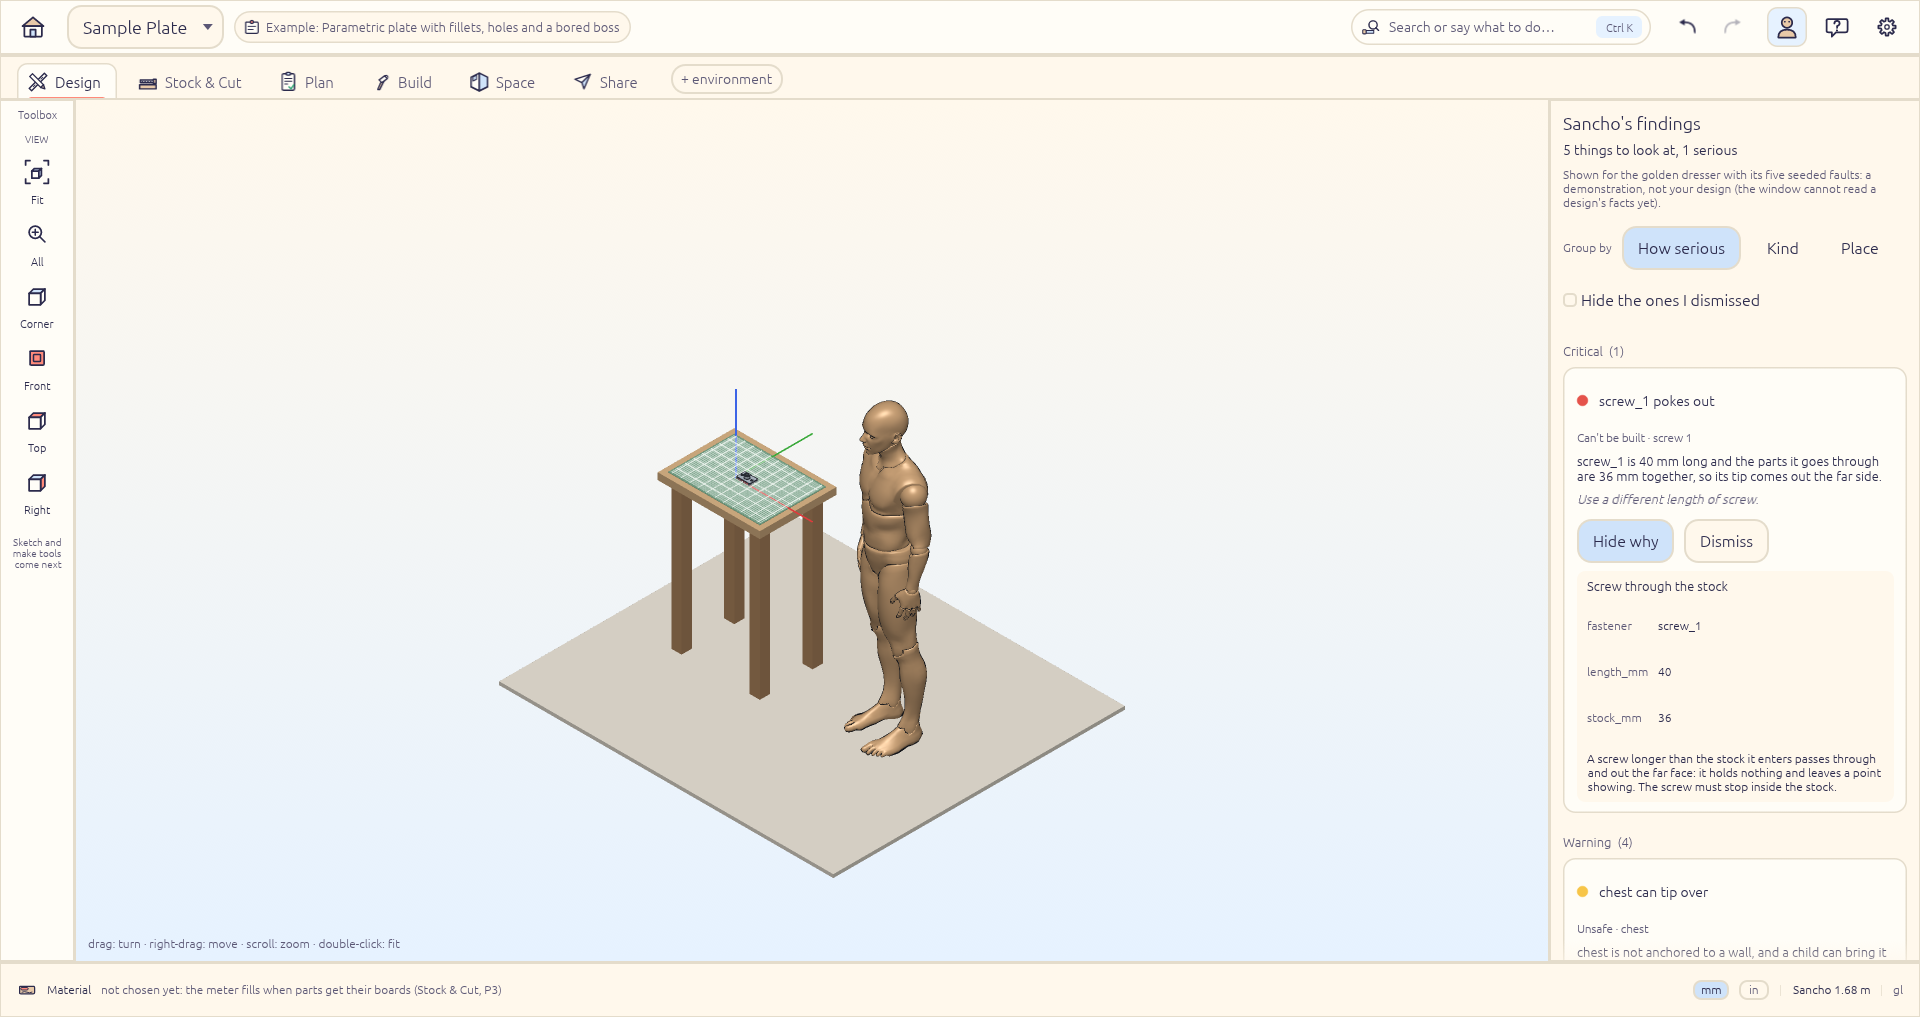
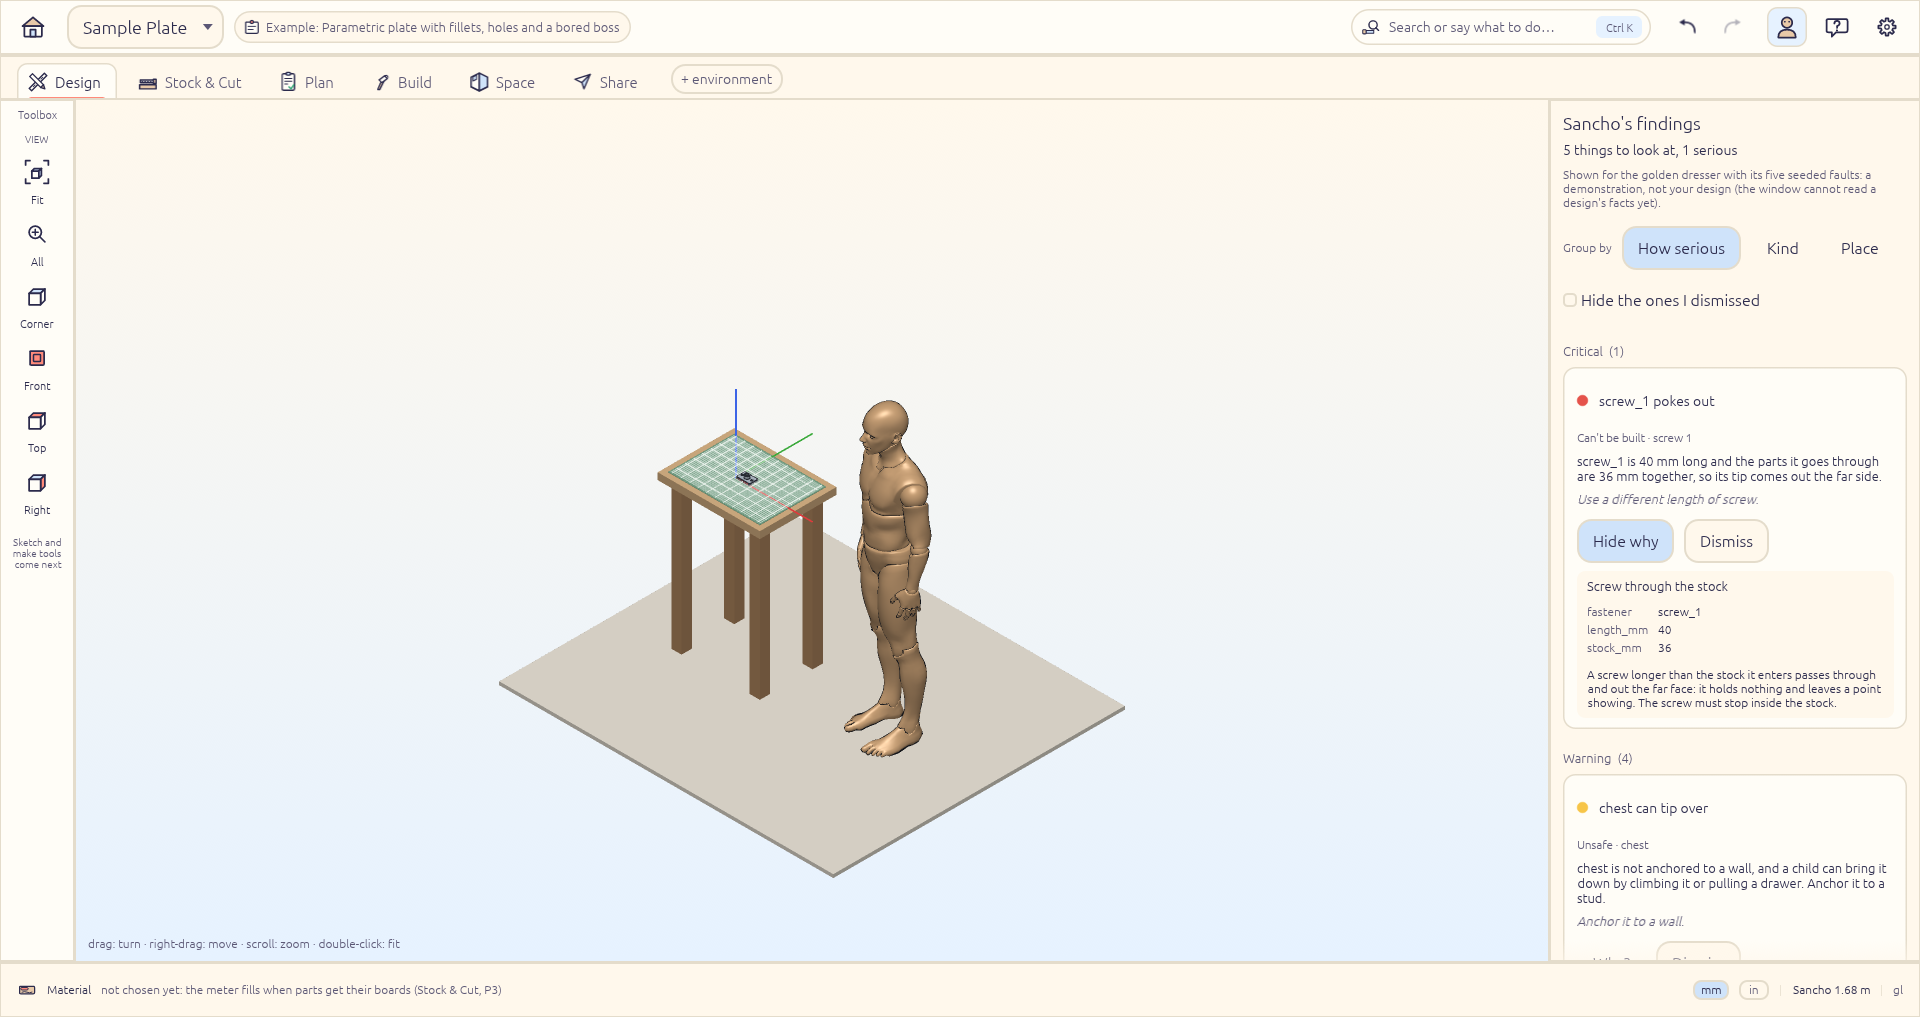
Findings panel: the "Why?" rows are no longer button height apart
The derivation grid took its row height from the button size (44 px); plain
labels now get 16 px. Screenshot retaken.

Changed region(s): [[0.8125, 0.6096, 0.9688, 0.9449]]

diff --git a/apps/mk-desktop/src/findings_panel.rs b/apps/mk-desktop/src/findings_panel.rs
@@ -304,6 +304,8 @@ fn derivation_ui(ui: &mut Ui, p: &Palette, finding: &Finding) {
             egui::Grid::new(("why", finding.what.as_str()))
                 .num_columns(2)
                 .spacing(vec2(10.0, 2.0))
+                // The default row height is a button's (44 px): these are plain labels.
+                .min_row_height(16.0)
                 .show(ui, |ui| {
                     for (label, value) in &d.inputs {
                         ui.label(RichText::new(label).size(12.0).color(p.muted));

diff --git a/STATUS.md b/STATUS.md
@@ -196,7 +196,7 @@ the `brand-free`, `layers` and `wasm` gates are green; the probe picks DX12/GL a
 | **`mk-project`: intent_card (campaign `mk-core-31`)** | `cargo test -p mk-project`; `crates/mk-project/src/intent_card.rs`; contract `crew/contracts/mk_intent_card.md` | The Intent card (doc 05 section 5.2, doc 04 section 4.2): items, what is open, progress. **Gordon wrote the contract, the reference and 40 hidden tests himself (PA)**; **Hoss wrote the module (1 attempt(s), 6 requests in all), Deepak's 31 tests**. intent_card.rs: 12 mutants, 1 did not compile, 11/11 killed by the tests |
 | **"Start something new": the Quest in the window** (doc 05 section 5.2; P2) | `makercad --quest N --screenshot PATH`; `apps/mk-desktop/src/quest_screen.rs`; `cargo test -p mk-desktop --lib` | The opening screen's first card opens the nine questions of the Crew's `mk_log::quest` (every one skippable; "Skip to designing" always there): a step rail, the question, and "What your answers set up": the interpreter's (`mk_assist::interpret`) environments each with its why, the scale class (a typed size wins over the guess), the toolbox, and Sancho's note. Tools come from the taxonomy's kits and words (`mk_inventory::taxonomy`), materials are read by quick-add, a typed date and budget are checked. Confirming makes a project: a file name that never replaces an older one (`Desk.maker`, `Desk 2.maker`), the intent with deadline and budget, the manifest's environments, `project/inventory.json`, an empty design, saved through the safe saving. `--quest N` opens at step N with a sample dresser filled in, for screenshots (`docs/screens/2026-11-22-quest-step4.png` and `-step9.png`, Daydream). **The app's 61 unit tests pass** (5 Quest tests and 1 file-name test among them). Compiled on the first try, one deprecation fixed; the font has no check mark or arrow glyph, so the check is drawn. **Not wired yet** (all landed as modules): the Intent card, the toolbox and observations (the Findings panel and "Why?" are in the window: next row); clippy for the app runs in the cloud |
 | **`mk-assist`: golden (campaign `mk-core-33`)** | `cargo test -p mk-assist`; `crates/mk-assist/src/golden.rs`; contract `crew/contracts/mk_golden.md` | The golden dresser, as facts (doc 14 P2 exit: "5 seeded faults flagged with 0 false flags"): `sound()` is a three-drawer chest that all four rule packs (core, tools, structure, safety) leave alone; `faulted()` seeds exactly five faults (a sagging top, a screw that pokes out, one too near an edge, a step with no tool for it, a tall unanchored chest); each seed alone trips exactly its own rule; eight near misses (a load at 89% of sagging, a screw 1 mm short of poking out, a load equal to its anchor's rating...) give nothing; `check` compares what the packs found with the seeds and `summary` says "5 of 5 seeded faults flagged, 0 false flags". The Tables are handbook-range numbers marked "not yet sourced". It runs on facts, not on a drawn design: the window still has to turn a SolidCraft design into those facts. **Gordon wrote the contract (a 62 KB brief failed on Windows' 32 KB command-line limit: cut to 29.8 KB), the reference and 28 hidden tests (PA, 19 minutes)**; **Deepak wrote the module (first attempt, 11 requests), Kimi's 35 tests (3 requests)**. Mutants 11/11 killed after Claude's test in `golden_more.rs` (the 10/11 survivor was a check that took "rule or place" for "rule and place"). Three clippy fixes in the Crew's tests |
-| **Sancho's Findings panel in the window** (doc 07 section 7.4; P2) | `makercad --findings dresser\|sound --screenshot PATH`; "Show the findings" in command search; `apps/mk-desktop/src/findings_panel.rs`; `cargo test -p mk-desktop --lib findings_panel` | A right-hand panel in the Design workspace drawing the Crew's models: findings sorted worst first and grouped by how serious, kind or place (`mk_assist::panel`), the badge's words ("5 things to look at, 1 serious"), each finding's reason and a plain-words fix, **"Why?"** opening its derivation (`mk_assist::why`: what Sancho looked at, the rule, where the numbers come from), Dismiss and Bring it back, "Hide the ones I dismissed". **It shows the golden dresser's findings** (`mk_assist::golden`: five seeded faults, or `sound`: none) and says at the top that this is a demonstration, not the open design: the window cannot yet turn a SolidCraft design into the facts the packs read. Not yet: the ledger's Speak/Bubble/Confirm deliveries and Sancho's voice, facts from a real design, the status-bar badge. **67 app tests pass** (6 for the panel: counts, dismiss and restore, words for every fix the packs give, a derivation for every finding, the Why hook, places in words). Compiled first try. Pictures: `docs/screens/2026-11-22-findings-dresser.png` (the screw's "Why?" open) and `-findings-sound.png`. Small thing left: the derivation's rows are spaced too far apart |
+| **Sancho's Findings panel in the window** (doc 07 section 7.4; P2) | `makercad --findings dresser\|sound --screenshot PATH`; "Show the findings" in command search; `apps/mk-desktop/src/findings_panel.rs`; `cargo test -p mk-desktop --lib findings_panel` | A right-hand panel in the Design workspace drawing the Crew's models: findings sorted worst first and grouped by how serious, kind or place (`mk_assist::panel`), the badge's words ("5 things to look at, 1 serious"), each finding's reason and a plain-words fix, **"Why?"** opening its derivation (`mk_assist::why`: what Sancho looked at, the rule, where the numbers come from), Dismiss and Bring it back, "Hide the ones I dismissed". **It shows the golden dresser's findings** (`mk_assist::golden`: five seeded faults, or `sound`: none) and says at the top that this is a demonstration, not the open design: the window cannot yet turn a SolidCraft design into the facts the packs read. Not yet: the ledger's Speak/Bubble/Confirm deliveries and Sancho's voice, facts from a real design, the status-bar badge. **67 app tests pass** (6 for the panel: counts, dismiss and restore, words for every fix the packs give, a derivation for every finding, the Why hook, places in words). Compiled first try. Pictures: `docs/screens/2026-11-22-findings-dresser.png` (the screw's "Why?" open) and `-findings-sound.png`. The derivation's rows are tight (their height was a button's 44 px) |
 | **`mk-assist`: design_facts (campaign `mk-core-34`)** | `cargo test -p mk-assist`; `crates/mk-assist/src/design_facts.rs`; contract `crew/contracts/mk_design_facts.md` | The geometry between a design and the structure pack (doc 07 section 7.5): from each part's id, material and axis-aligned box (mm, Z up: what the window can measure of any solid) it builds the pack's own `Part` (thickness = the smallest side), `Contact` (boxes within 1 mm touch; a part standing on the floor touches a synthetic `floor` part, which the pack's "held by nothing" needs), `Shelf` (a horizontal panel at least 300 mm long, held at both ends by parts whose centres lie in its first and last quarters; a back panel along the whole length is neither) and the whole `Design`. Silence over a guess: an unreadable box is left out, a duplicate id is ignored, a shelf needs both ends held. **Not yet used by the window**: it has to read each SolidCraft body's box and material, then call `design()` and the pack, and replace the Findings panel's golden dresser. **Gordon wrote the contract, the reference and 37 hidden tests (PA, 20 minutes)**; **Hoss wrote the module (first attempt, 1 request), Deepak's 35 tests (3 requests)**. Mutants 10/10 killed after Claude's test in `design_facts_more.rs` (the survivor: a gap up to the tolerance counted on only one side; checked by applying the mutation: the new test fails it). Three clippy fixes in the module (an unused index, a needless `..Default`, a negated comparison) and one allowance in the Crew's tests. The first campaign attempt failed for our reason: its `uses` lacked `findings.rs`, which `rules_structure.rs` imports (the generator now follows `crate::` references transitively) |
 | **The Quest reads and teaches the workshop library** (doc 05 section 5.3, "Workshop once, projects forever"; P2) | `apps/mk-desktop/src/quest_screen.rs` (`Workshop`, `library_path`); `python tools/make_sample_library.py PATH`, then `MAKERCAD_LIBRARY=PATH makercad --quest 4` (or `5`); `cargo test -p mk-desktop --lib quest_screen` | `%LOCALAPPDATA%\MakerCAD\library.db` (the SQLite file, one per person; `MAKERCAD_LIBRARY` names another) is read when "Start something new" opens. The tools step says "Your workshop has 11 tools I know (2 more are on a wishlist, borrowed, or not known to me yet)" with **Use my workshop**, which lists every owned or shared tool the taxonomy knows that the project doesn't have yet (untick any); the materials step does the same for the material lines on hand. Pressing it twice adds nothing. When the project is made, the tool kinds and material lines it added that the workshop lacked are written to the library (tools as owned), and the notice says so ("Your workshop learned 2 tools and 1 material line"). A library that cannot be read is said on stderr and the Quest carries on empty. **71 app tests pass** (4 new: what is read and what is left out, using it once, only what is new is taught, and a first run with no folder). Pictures: `docs/screens/2026-11-22-quest-workshop-step4.png` and `-step5.png` (a sample library). Not yet: a screen to edit the workshop itself, "these 9 matter for a dresser" (which tools a project needs), photo and receipt intake, and the library's access words (makerspace, rental, wishlist) are not asked in the Quest |
 | Crew: wave 4 under way | contracts `mk_taxonomy.md` (v2), `mk_findings.md`, `mk_rig.md`, `mk_persona.md`, `mk_interview.md`; campaigns `mk-core-12`..`16` | Briefs by Gordon (persona, rig) and Deepak (findings, interview), all four through their gates in 5 minutes. Taxonomy v1 asked one PA reply to hold 157 table rows: Qwen ran 1.1M tokens without writing a file. v2: `tools/taxonomy_gen.py` generates `taxonomy_data.rs` (67 tools, 90 materials, 8 kits, 41 capabilities) from the contract's tables, and the Crew writes only the lookups. The rig, persona and interview PA runs stopped when C: fell below the PA guard's 5 GB (a local desktop test build); re-queued after 0.9 GB of our own superseded test binaries were removed |
